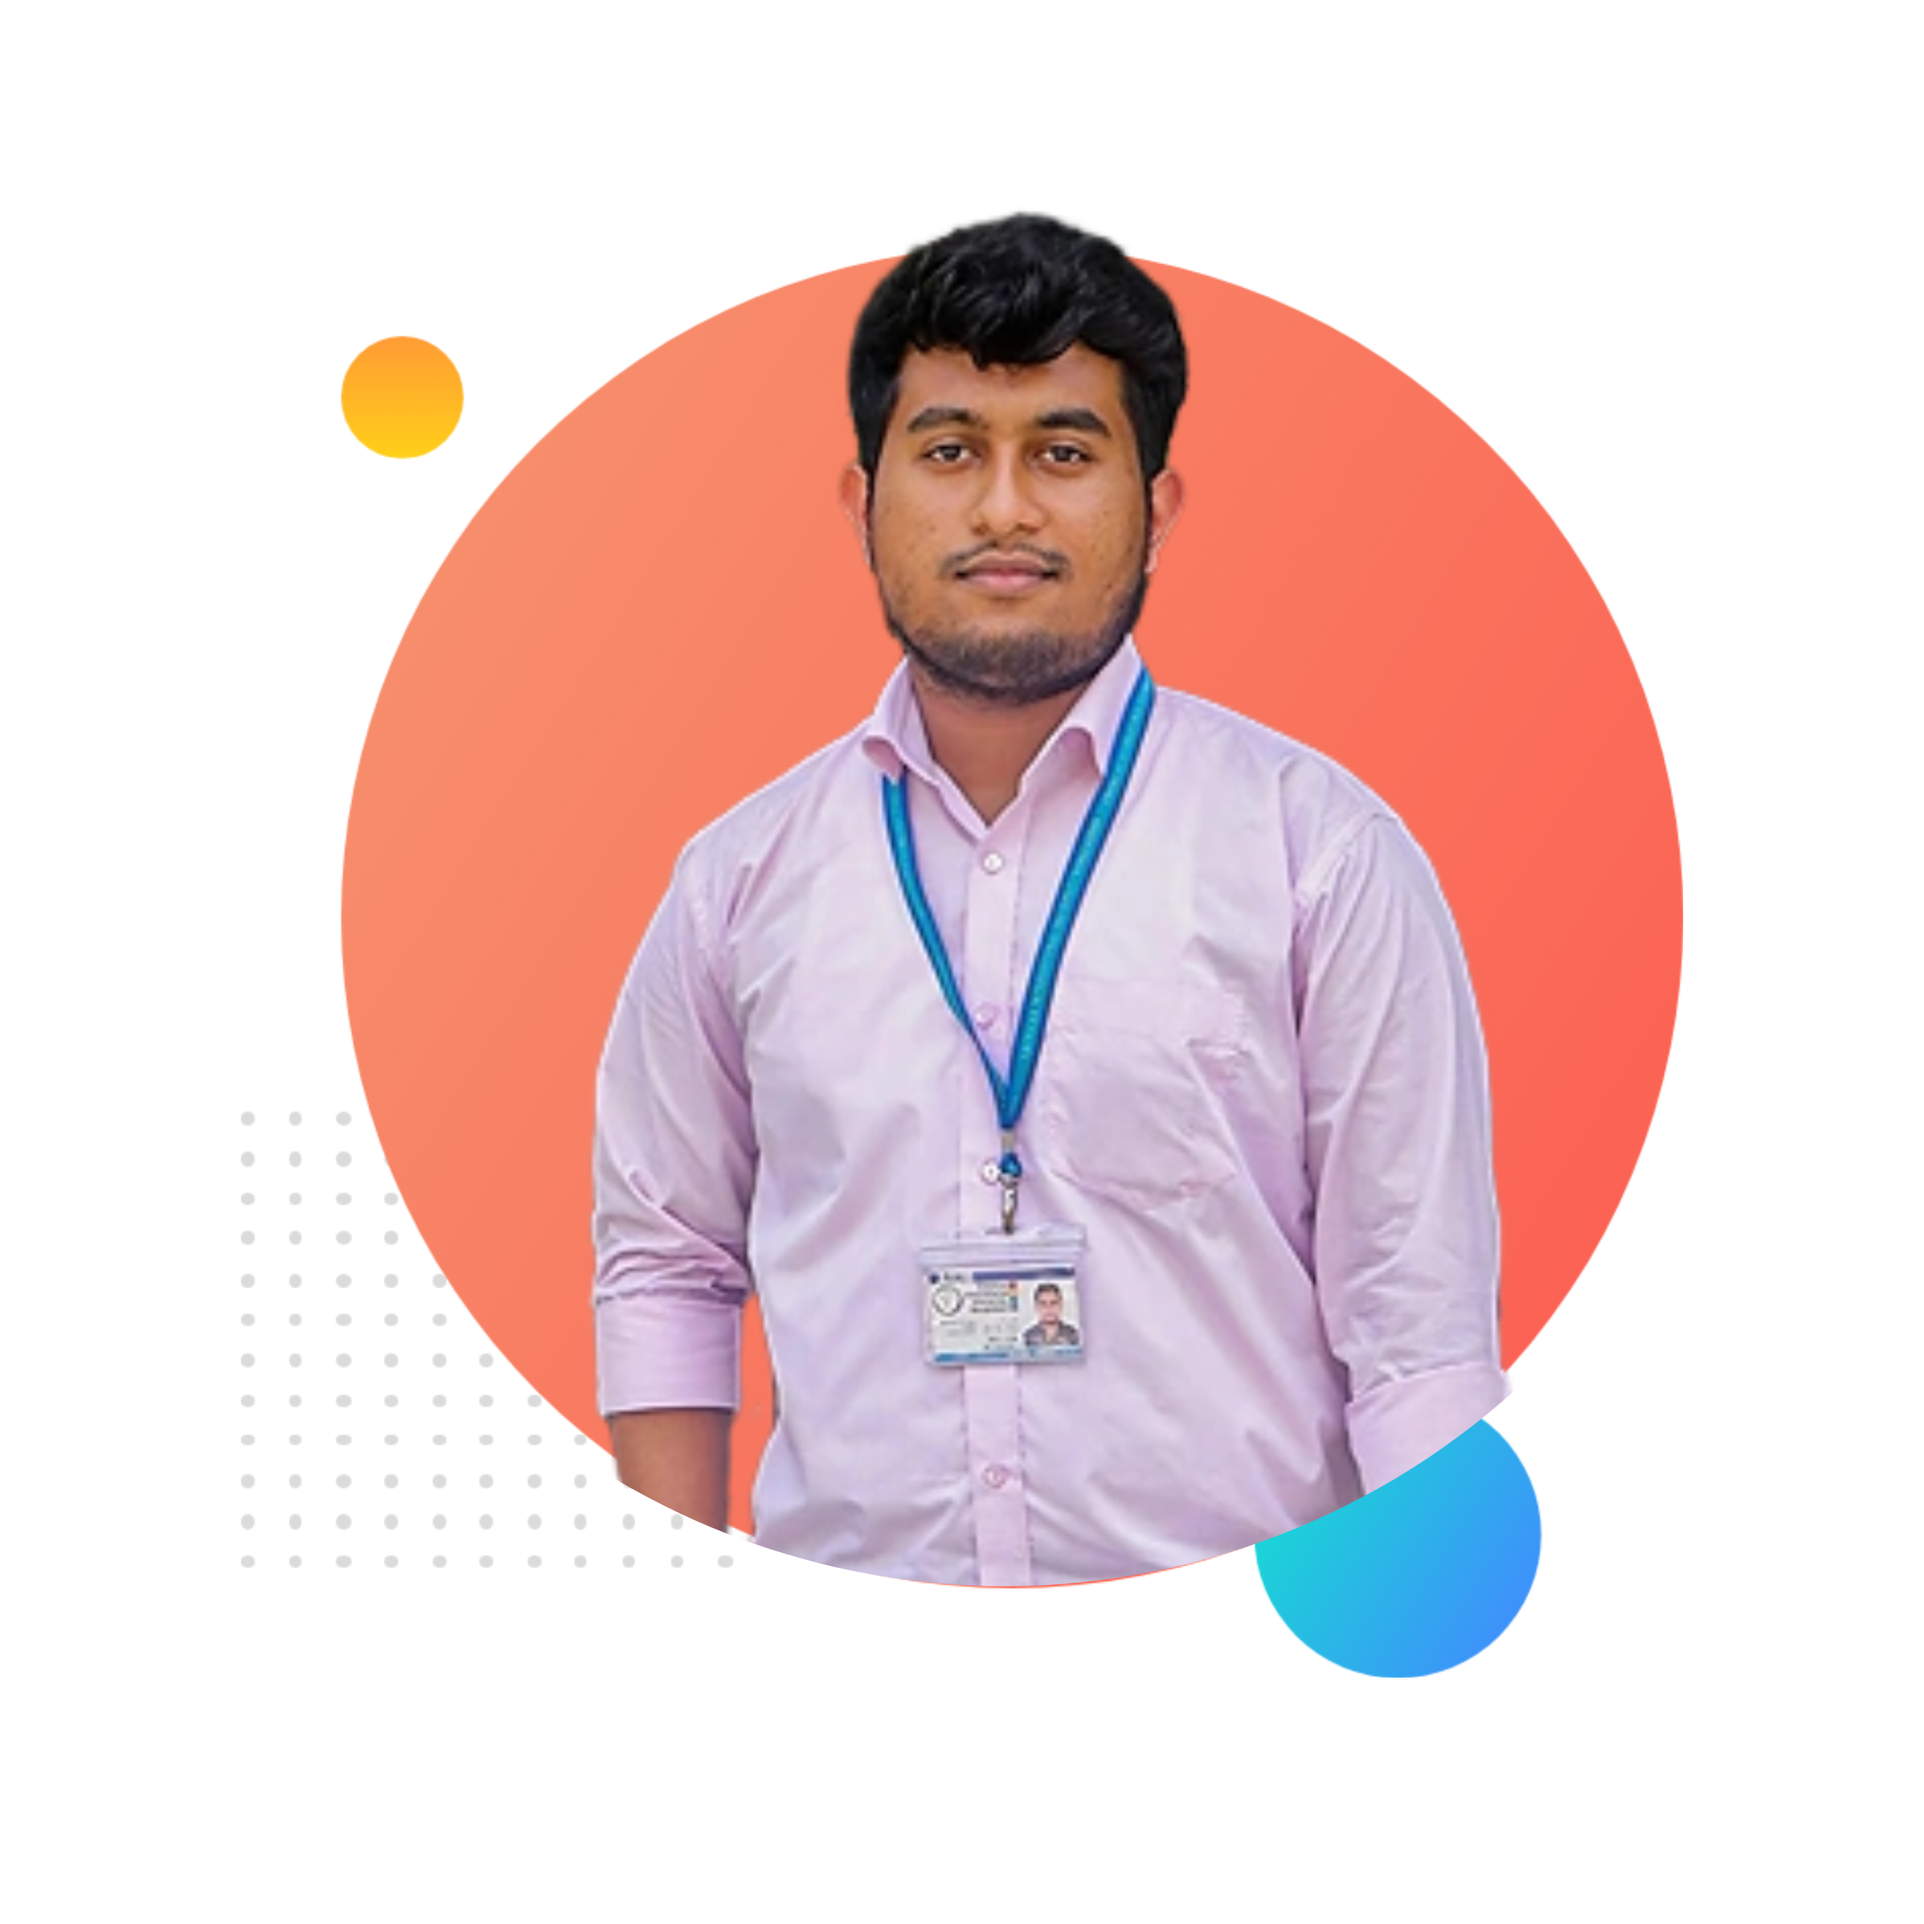
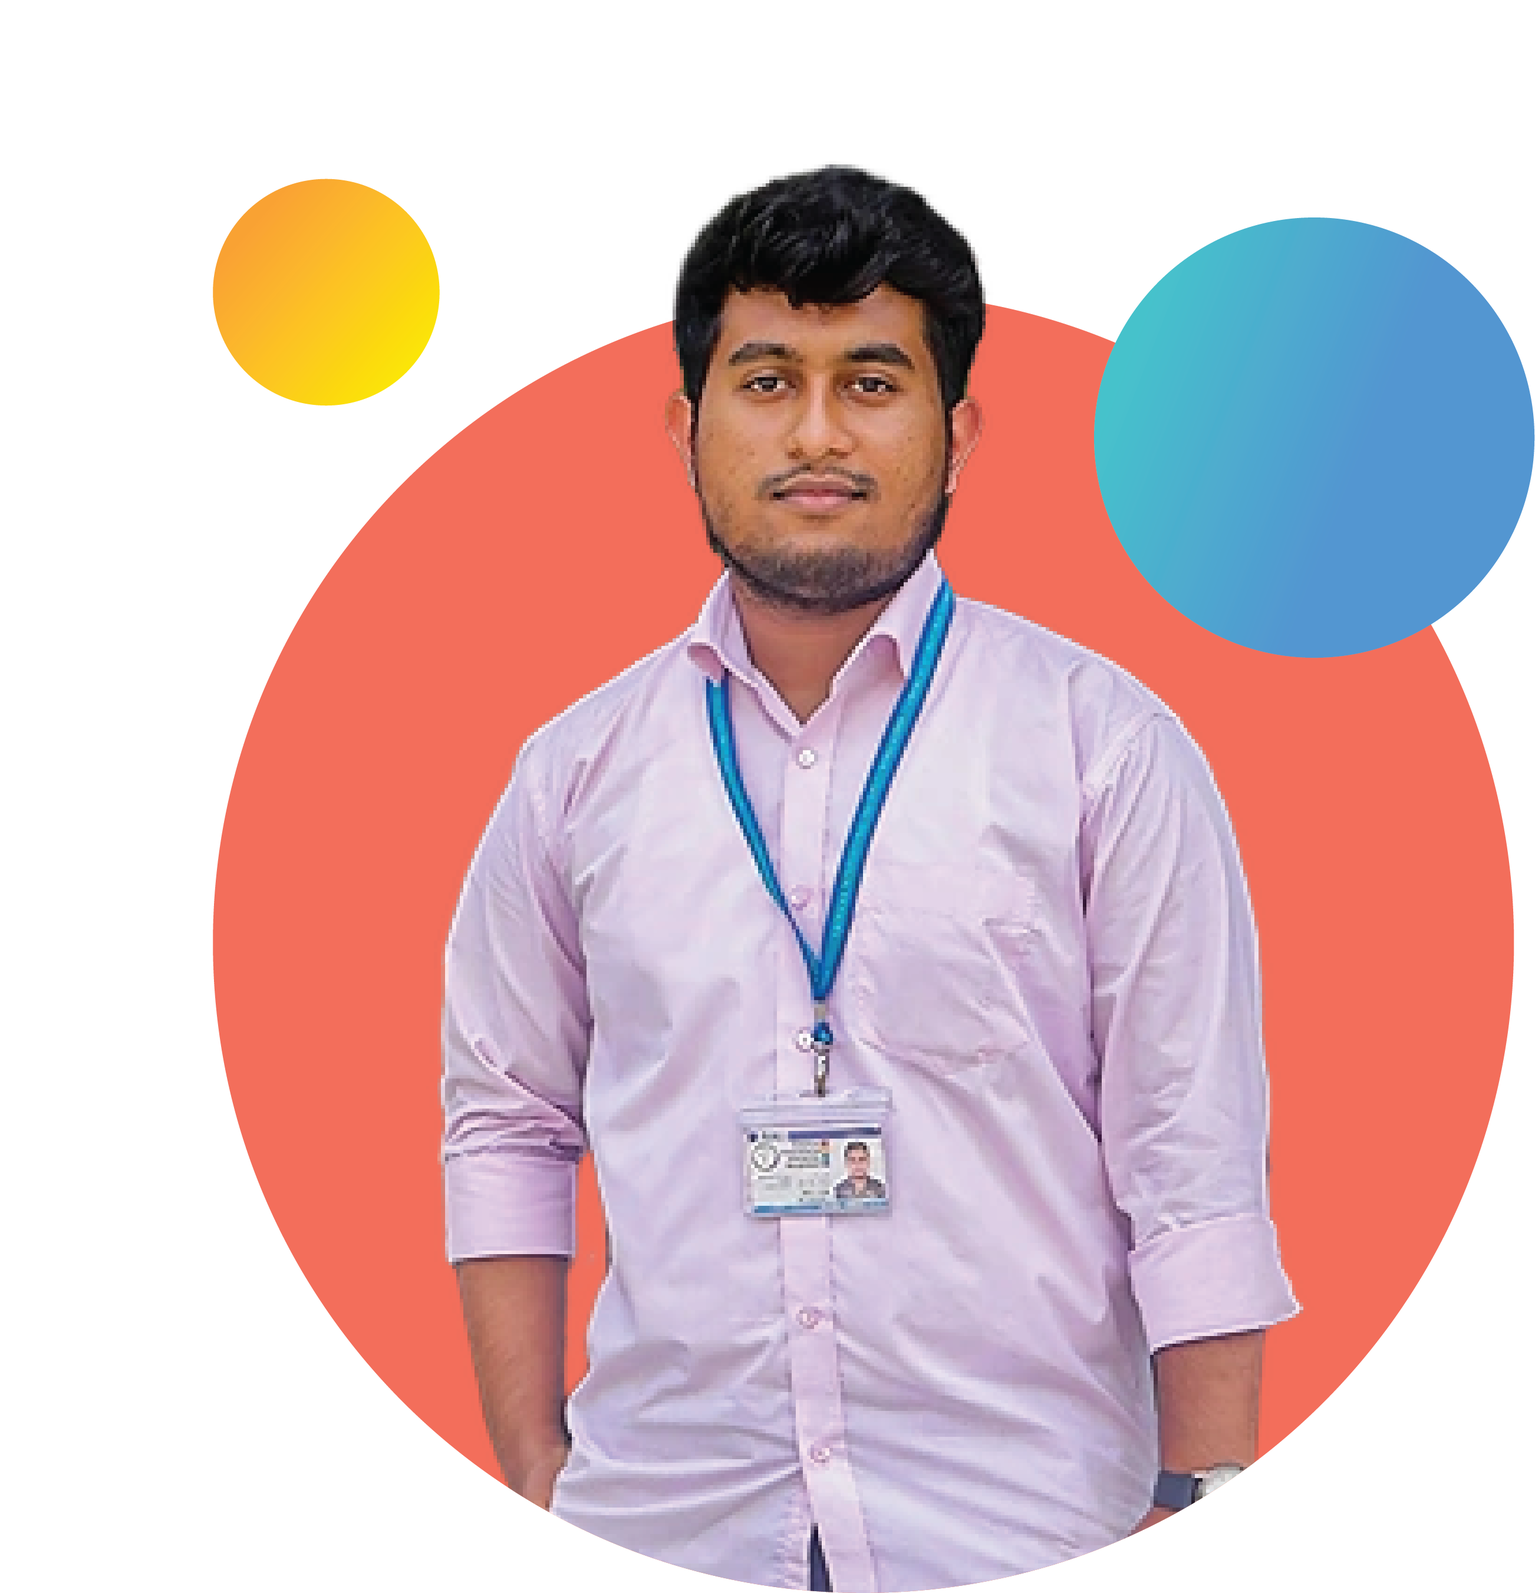
2nd change

diff --git a/index.html b/index.html
@@ -25,6 +25,24 @@
         </div>
         
     </section>
+    <section class="big-dream">
+
+        <div class="half-width">
+            <img src="images/sajib.png" alt="">
+        </div>
+        <div class="half-width">
+            <h1>Hello Myself</h1>
+            <h1><span class="color">Abdul Aziz</span> Sajib</h1>
+            <h3>ABOUT ME</h3>
+            <p>
+                A fresh graduate in Computer Science and Engineering looking for an opportunity to capitalize on the achieved skills and knowledge in software engineering for the betterment of Your company. Graduated with basic knowledge in coding and design. Proficient in C++, C#, HTML 5, JavaScript, and Python and also experience with Software Quality and Testing projects. Ability to learn new software and technologies quickly. Capability to work in teams by providing valuable support.
+                
+            </p>
+            <a class="hireme" target="_blank" href="https://www.linkedin.com/in/abdulazizsajib1/">Download My Resume</a>
+        </div>
+        
+
+    </section>
 
 </body>
 

diff --git a/style.css b/style.css
@@ -8,6 +8,7 @@ body{
 }
 h1{
     font-size: 50px;
+    
 }
 .color{
     color: rgb(223, 133, 16);
@@ -15,9 +16,11 @@ h1{
 
 section{
     display: flex;
+    margin-bottom: 250px;
+    
 }
 .half-width{
-    width : 50%;
+    width :50%;
     padding-left: 5%;
     text-align: justify;   
 }
@@ -28,8 +31,9 @@ section{
 
 .hireme{
     text-decoration: none;
+    border-radius: 8px;
     padding: 10px 30px;
-    background-image: linear-gradient(#ff9966,#ff5e62);
+    background-image: linear-gradient(#fffb00,#ff7b00);
     color: black;
     font-weight: 700;
     font-size: 80x;
@@ -39,4 +43,9 @@ section{
 .topbanner{
     background-image: url(images/top-banner.png );
     background-repeat: no-repeat; 
+}
+.big-dream{
+ background-image: url(images/dream-bg.png);
+ background-repeat: no-repeat;
+ background-position: right;
 }
